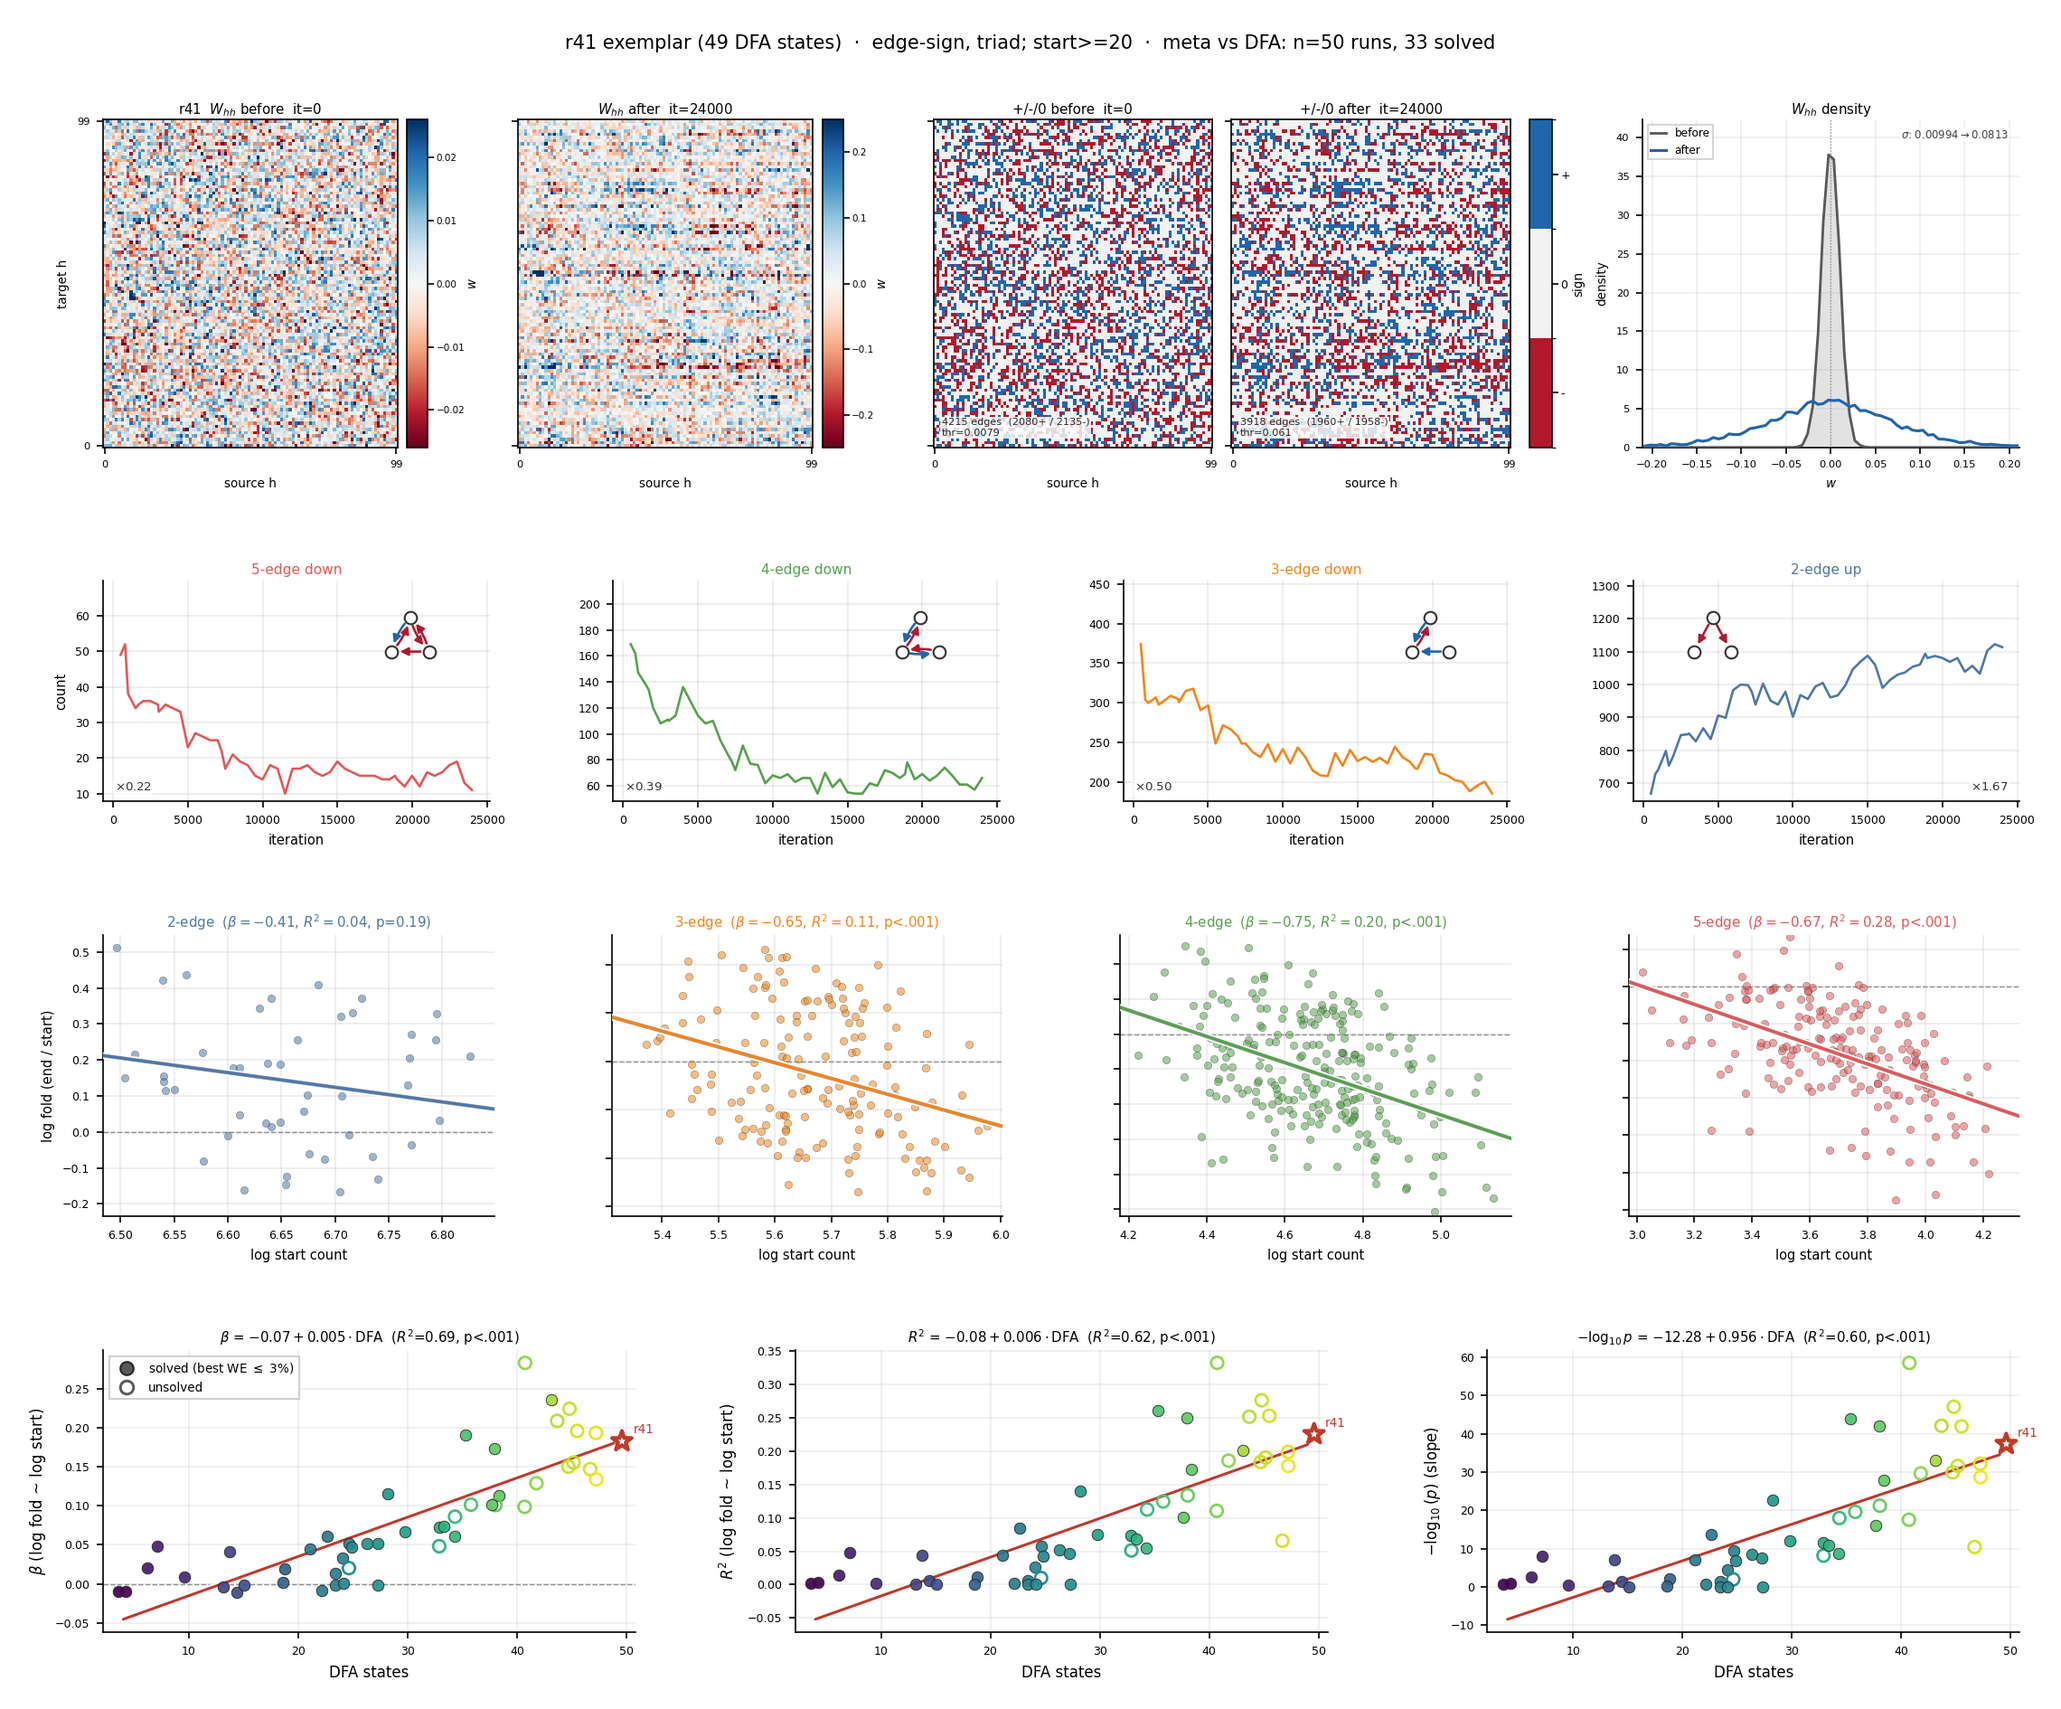
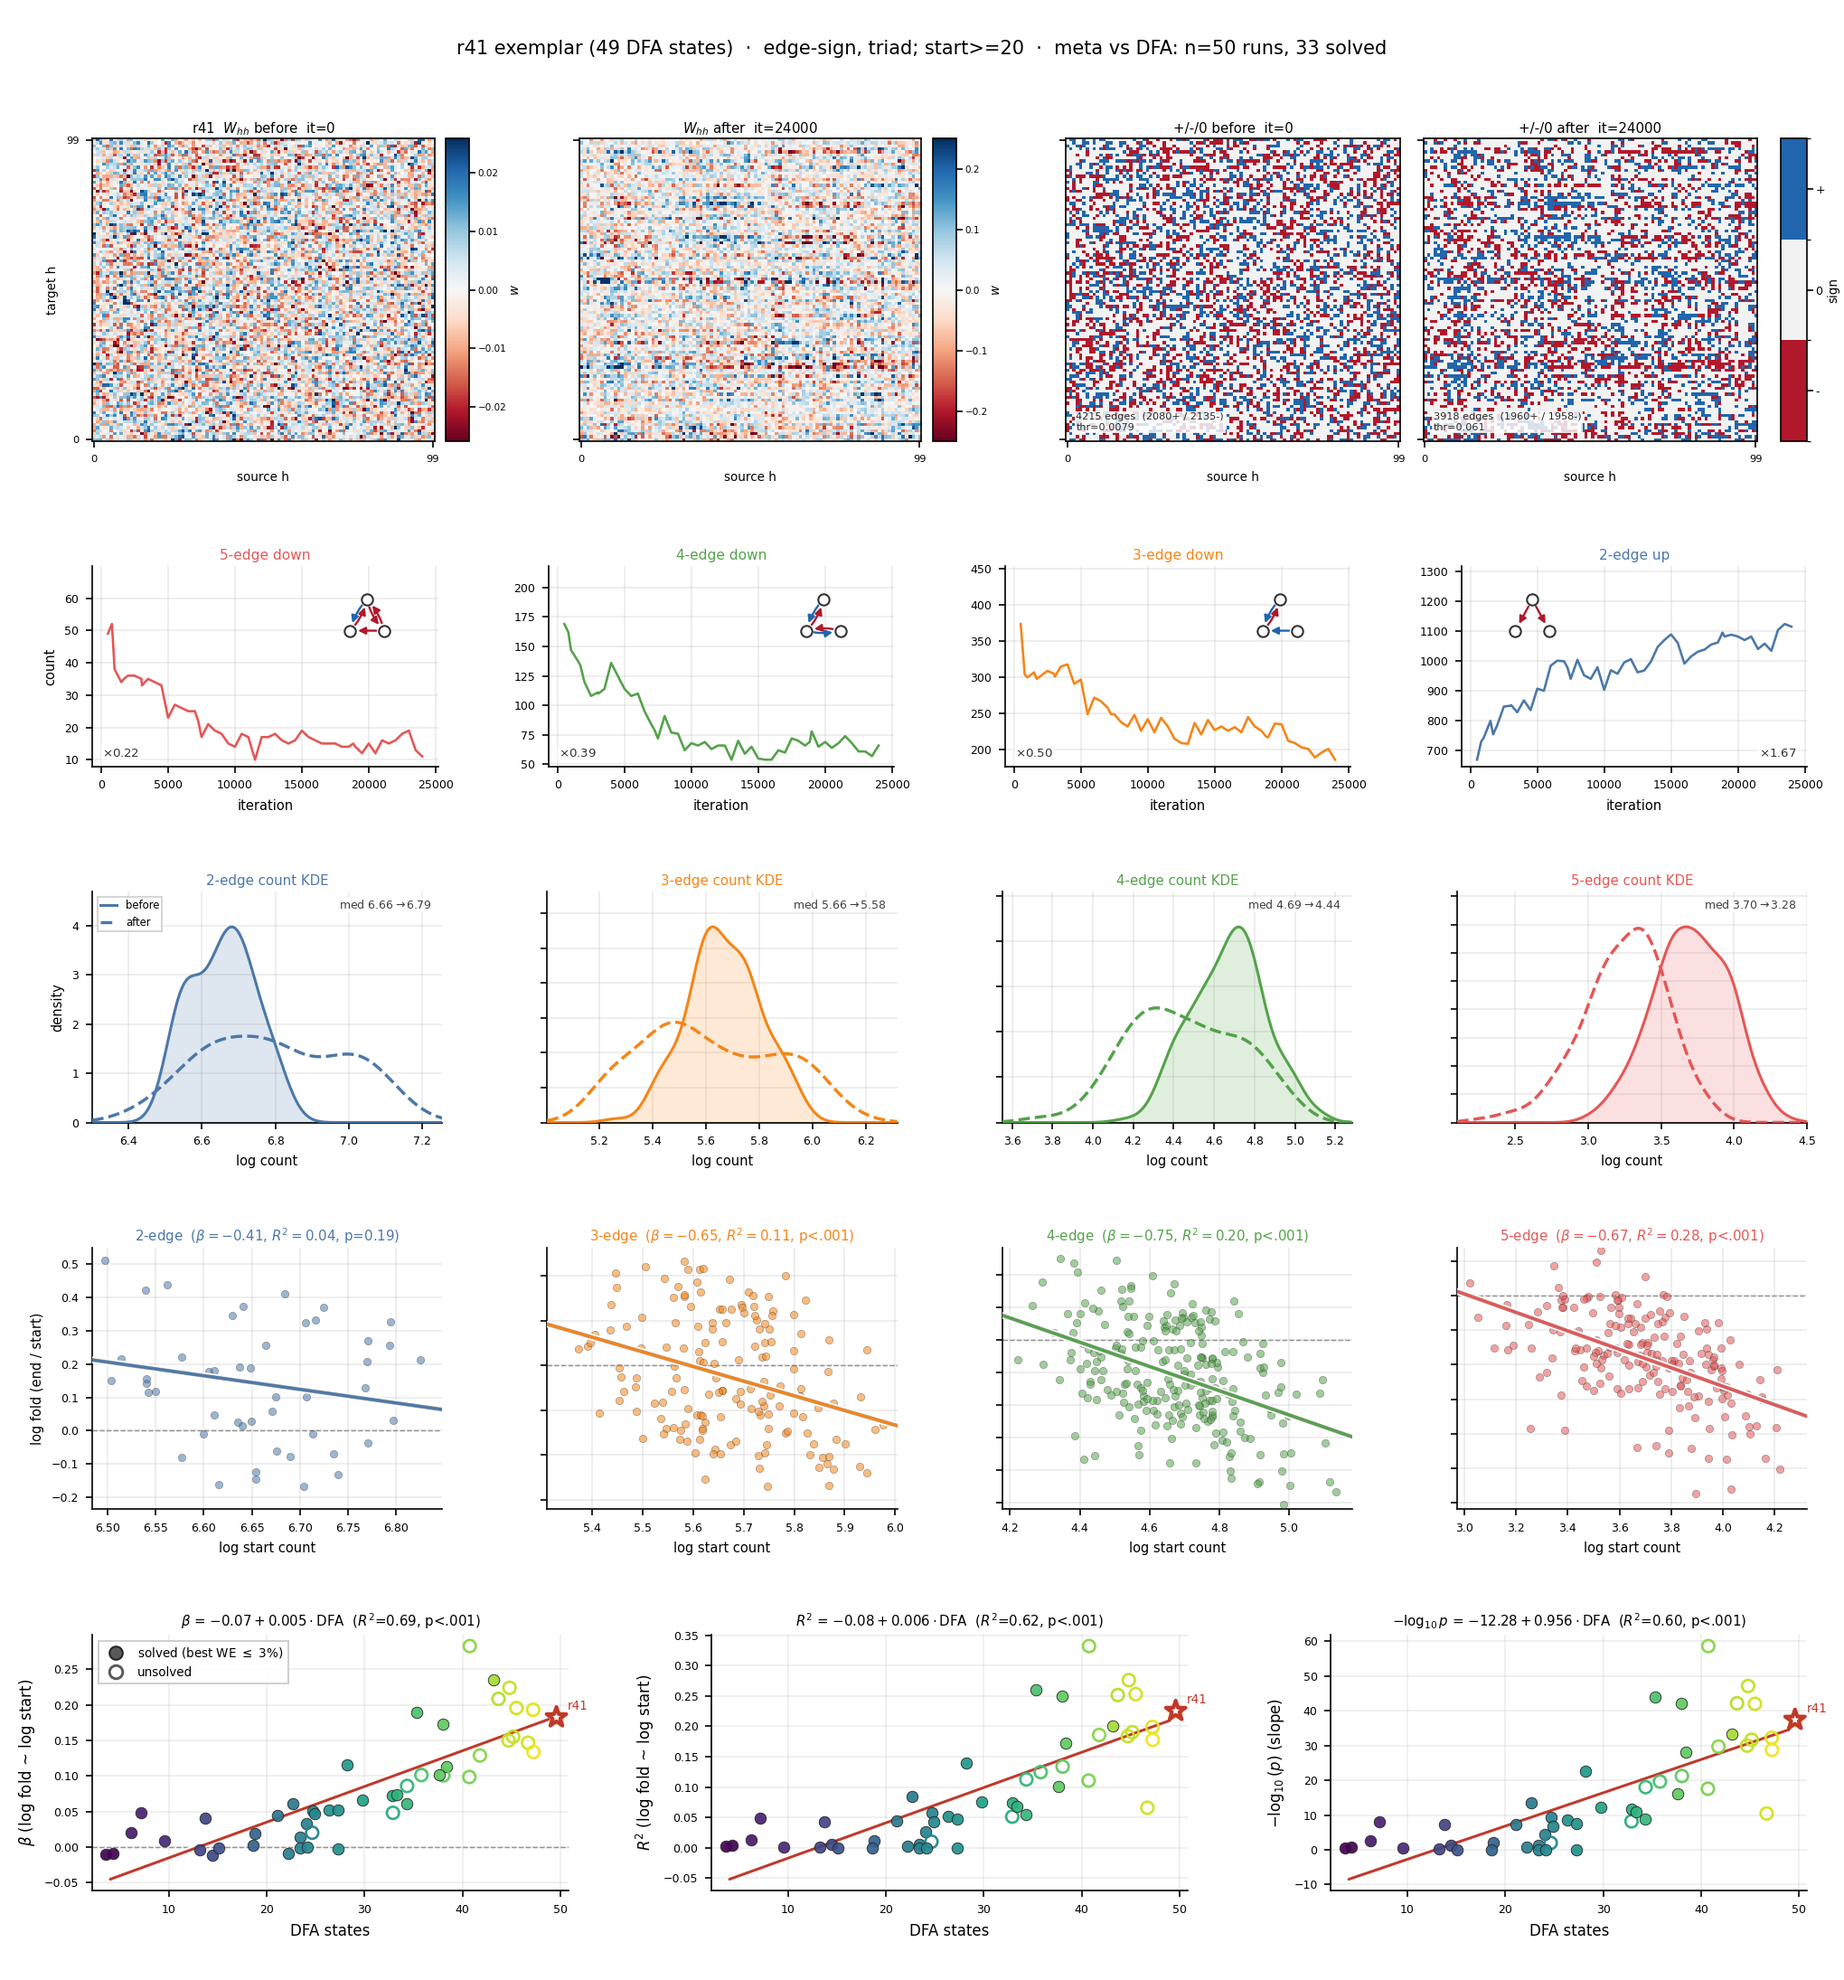
figures

diff --git a/viz/compare/mixed_dfa_motif_all_runs.py b/viz/compare/mixed_dfa_motif_all_runs.py
@@ -988,6 +988,89 @@ def _draw_tier_kde_before_after(
     ax.legend(fontsize=5.5, frameon=True, fancybox=False, edgecolor="0.8", loc="upper left")
 
 
+def _draw_tier_count_kde_overlay(
+    ax,
+    rows: list[dict],
+    *,
+    n_edges: int,
+    show_legend: bool = False,
+    ylabel: bool = False,
+) -> None:
+    """Overlapping KDE of log motif-class counts: before vs after, one #edges tier."""
+    from scipy.stats import gaussian_kde
+
+    v0 = np.array(
+        [float(r["log_c0"]) for r in rows if _n_edges_from_key(r["key"]) == n_edges],
+        dtype=float,
+    )
+    v1 = np.array(
+        [
+            float(r["log_c0"]) + float(r["log_fold"])
+            for r in rows if _n_edges_from_key(r["key"]) == n_edges
+        ],
+        dtype=float,
+    )
+    v0 = v0[np.isfinite(v0)]
+    v1 = v1[np.isfinite(v1)]
+    col = _EDGE_COUNT_COLORS.get(n_edges, "#888888")
+    ax.set_title(f"{n_edges}-edge count KDE", fontsize=7.2, pad=3.5, color=col)
+
+    if len(v0) < 2 and len(v1) < 2:
+        ax.text(
+            0.5, 0.5, "insufficient\nmotif classes", ha="center", va="center",
+            transform=ax.transAxes, fontsize=7,
+        )
+        ax.set_xticks([])
+        ax.set_yticks([])
+        return
+
+    parts = [v for v in (v0, v1) if len(v)]
+    x_lo = float(min(v.min() for v in parts)) - 0.15
+    x_hi = float(max(v.max() for v in parts)) + 0.15
+    xs = np.linspace(x_lo, x_hi, 220)
+    y_max = 0.0
+
+    def _kde_line(
+        vals: np.ndarray, *, color: str, fill: bool, ls: str, lw: float, label: str, z: int,
+    ):
+        nonlocal y_max
+        if len(vals) < 2 or float(np.std(vals)) < 1e-9:
+            return
+        kde = gaussian_kde(vals, bw_method=lambda k: max(float(k.scotts_factor()), 0.06))
+        ys = np.asarray(kde(xs), dtype=float)
+        y_max = max(y_max, float(np.nanmax(ys)))
+        if fill:
+            ax.fill_between(xs, ys, color=color, alpha=0.18, zorder=z - 1)
+        ax.plot(xs, ys, color=color, lw=lw, ls=ls, label=label, zorder=z)
+
+    _kde_line(v0, color=col, fill=True, ls="-", lw=1.45, label="before", z=3)
+    _kde_line(v1, color=col, fill=False, ls="--", lw=1.65, label="after", z=4)
+    ax.set_xlim(x_lo, x_hi)
+    ax.set_ylim(0.0, y_max * 1.18 if y_max > 0 else 1.0)
+    ax.set_xlabel("log count", fontsize=7.0)
+    if ylabel:
+        ax.set_ylabel("density", fontsize=7.0)
+    else:
+        ax.tick_params(labelleft=False)
+    ax.tick_params(labelsize=6.0)
+    ax.grid(True, alpha=0.25)
+    ax.spines["top"].set_visible(False)
+    ax.spines["right"].set_visible(False)
+    if len(v0) >= 2 and len(v1) >= 2:
+        ax.text(
+            0.97, 0.97,
+            rf"med {float(np.median(v0)):.2f}$\rightarrow${float(np.median(v1)):.2f}",
+            transform=ax.transAxes, ha="right", va="top", fontsize=6.0, color="0.25",
+            bbox=dict(facecolor="white", edgecolor="none", alpha=0.85, pad=0.6),
+            zorder=5,
+        )
+    if show_legend:
+        ax.legend(
+            fontsize=5.6, loc="upper left", frameon=True, fancybox=False,
+            edgecolor="0.8", borderpad=0.25, handlelength=1.6,
+        )
+
+
 def _draw_motif_distribution_hist(
     ax,
     cnt: dict,
@@ -2831,7 +2914,7 @@ def _draw_hh_before_after_row(
     *,
     run_id: int,
 ) -> None:
-    """Four heatmaps plus overlapping before/after W_hh density.
+    """Four heatmaps: raw W_hh and mean-|W| trinary (+/−/0), start vs end.
 
     Each snapshot is hierarchically clustered on its own W_xh / W_hh (same
     unit permutation on rows and columns). Before and after use independent
@@ -2846,7 +2929,7 @@ def _draw_hh_before_after_row(
         symmetric_abs_vmax,
     )
 
-    # Four groups: (W0+cbar) | (W1+cbar) | (T0, T1, cbarT) | density overlay
+    # Three groups: (W0+cbar) | (W1+cbar) | (T0, T1, cbarT)
     gs_w0 = gs[0, 0].subgridspec(1, 2, width_ratios=[1.0, 0.07], wspace=0.06)
     gs_w1 = gs[0, 1].subgridspec(1, 2, width_ratios=[1.0, 0.07], wspace=0.06)
     gs_t = gs[0, 2].subgridspec(1, 3, width_ratios=[1.0, 1.0, 0.08], wspace=0.10)
@@ -2857,12 +2940,11 @@ def _draw_hh_before_after_row(
     ax_t0 = fig.add_subplot(gs_t[0, 0])
     ax_t1 = fig.add_subplot(gs_t[0, 1])
     cax_t = fig.add_subplot(gs_t[0, 2])
-    ax_h = fig.add_subplot(gs[0, 3])
     axes_w = (ax_w0, ax_w1)
     axes_t = (ax_t0, ax_t1)
 
     if payload is None:
-        for ax in (*axes_w, *axes_t, ax_h):
+        for ax in (*axes_w, *axes_t):
             ax.axis("off")
         ax_w0.text(
             0.5, 0.5, "no learning snaps", ha="center", va="center",
@@ -2950,50 +3032,6 @@ def _draw_hh_before_after_row(
     cbar_t.ax.set_yticklabels(["-", "0", "+"])
     cbar_t.ax.tick_params(labelsize=6.0, pad=1)
     cbar_t.set_label("sign", fontsize=6.5, labelpad=1)
-
-    eye = np.eye(n, dtype=bool)
-    flat0 = w0c[~eye]
-    flat1 = w1c[~eye]
-    both = np.concatenate([flat0, flat1])
-    finite = both[np.isfinite(both)]
-    if finite.size == 0:
-        ax_h.text(0.5, 0.5, "no weights", ha="center", va="center",
-                  transform=ax_h.transAxes, fontsize=8)
-        ax_h.axis("off")
-        return
-    w_lo = float(np.percentile(finite, 0.5))
-    w_hi = float(np.percentile(finite, 99.5))
-    if not np.isfinite(w_lo) or not np.isfinite(w_hi) or w_lo == w_hi:
-        w_lo, w_hi = -1.0, 1.0
-    bins = np.linspace(w_lo, w_hi, 73)
-    centers = 0.5 * (bins[:-1] + bins[1:])
-    dens0, _ = np.histogram(flat0, bins=bins, density=True)
-    dens1, _ = np.histogram(flat1, bins=bins, density=True)
-    ax_h.plot(centers, dens0, color="0.35", lw=1.35, label="before", zorder=3)
-    ax_h.fill_between(centers, dens0, color="0.72", alpha=0.40, zorder=1)
-    ax_h.plot(centers, dens1, color="#2166ac", lw=1.50, label="after", zorder=4)
-    ax_h.axvline(0.0, color="0.55", lw=0.6, ls=":", zorder=2)
-    y_max = max(float(np.nanmax(dens0)), float(np.nanmax(dens1)), 1e-9)
-    ax_h.set_xlim(w_lo, w_hi)
-    ax_h.set_ylim(0.0, y_max * 1.12)
-    ax_h.set_title(r"$W_{hh}$ density", fontsize=7.2, pad=3.0)
-    ax_h.set_xlabel(r"$w$", fontsize=6.5)
-    ax_h.set_ylabel("density", fontsize=6.5)
-    ax_h.tick_params(labelsize=5.5)
-    ax_h.grid(True, alpha=0.22)
-    ax_h.spines["top"].set_visible(False)
-    ax_h.spines["right"].set_visible(False)
-    ax_h.legend(
-        fontsize=5.8, loc="upper left", frameon=True, fancybox=False,
-        edgecolor="0.8", borderpad=0.25, handlelength=1.4,
-    )
-    sd0, sd1 = float(np.std(flat0)), float(np.std(flat1))
-    ax_h.text(
-        0.97, 0.97, rf"$\sigma$: {sd0:.3g}$\rightarrow${sd1:.3g}",
-        transform=ax_h.transAxes, ha="right", va="top", fontsize=5.6, color="0.25",
-        bbox=dict(facecolor="white", edgecolor="none", alpha=0.85, pad=0.6),
-        zorder=5,
-    )
 
 
 def plot_all_runs_homogenization_board(
@@ -3110,14 +3148,17 @@ def plot_all_runs_homogenization_board(
     n_meta = 3
     hh_pair = _load_run_hh_before_after(exempl_id, model=model, seed=seed)
 
-    fig = plt.figure(figsize=(max(15.2, 2.55 * max(n_tier, n_meta) + 2.2), 12.6))
-    outer = fig.add_gridspec(4, 1, height_ratios=[1.22, 0.82, 1.05, 1.05], hspace=0.48)
+    fig = plt.figure(figsize=(max(13.6, 2.55 * max(n_tier, n_meta) + 0.8), 14.6))
+    outer = fig.add_gridspec(
+        5, 1, height_ratios=[1.18, 0.78, 0.90, 1.02, 1.00], hspace=0.50,
+    )
     mat_row = outer[0].subgridspec(
-        1, 4, width_ratios=[1.05, 1.05, 2.00, 1.22], wspace=0.22,
+        1, 3, width_ratios=[1.12, 1.12, 2.20], wspace=0.22,
     )
     demo_row = outer[1].subgridspec(1, max(n_demo, 1), wspace=0.32)
-    tier_row = outer[2].subgridspec(1, n_tier, wspace=0.30)
-    meta_row = outer[3].subgridspec(1, n_meta, wspace=0.30)
+    kde_row = outer[2].subgridspec(1, n_tier, wspace=0.30)
+    tier_row = outer[3].subgridspec(1, n_tier, wspace=0.30)
+    meta_row = outer[4].subgridspec(1, n_meta, wspace=0.30)
     schema_insets: list[tuple[Any, str, bool]] = []
     _draw_hh_before_after_row(fig, mat_row, hh_pair, run_id=exempl_id)
 
@@ -3162,6 +3203,12 @@ def plot_all_runs_homogenization_board(
         x_disp, y_disp = _jitter_display_coords(log_c0, log_fold, seed=0)
     else:
         x_disp = y_disp = np.array([])
+    for j, ne in enumerate(preferred_tiers):
+        ax_k = fig.add_subplot(kde_row[0, j])
+        _draw_tier_count_kde_overlay(
+            ax_k, exempl_rows, n_edges=ne,
+            show_legend=(j == 0), ylabel=(j == 0),
+        )
     for j, ne in enumerate(preferred_tiers):
         ax = fig.add_subplot(tier_row[0, j])
         mask = n_edges == ne
@@ -3242,7 +3289,7 @@ def plot_all_runs_homogenization_board(
         bottom=0.045,
         left=0.05,
         right=0.98,
-        hspace=0.48,
+        hspace=0.52,
         wspace=0.30,
     )
     for inset, key, _rising in schema_insets:

diff --git a/scripts/r43_motif_figs.py b/scripts/r43_motif_figs.py
@@ -703,7 +703,7 @@ def plot_lollipop_before_after(
     title: str | None = None,
     motif_prefix: str = "T|",
 ) -> Path:
-    """Per-motif start / end / Δ lollipops, ordered by #edges then end−start."""
+    """Per-motif start / end / Δ lollipops, ordered by #edges then start count."""
     snaps = json.loads(json_path.read_text(encoding="utf-8"))
     c0 = snaps[0]["cnt"]
     c1 = snaps[-1]["cnt"]
@@ -719,7 +719,7 @@ def plot_lollipop_before_after(
         end = float(c1.get(key, 0.0))
         ne = int(mar._n_edges_from_key(key))
         rows.append((ne, start, end, end - start, key))
-    rows.sort(key=lambda r: (r[0], -r[3], -r[1], r[4]))
+    rows.sort(key=lambda r: (r[0], -r[1], -r[3], r[4]))
 
     tiers = sorted({r[0] for r in rows})
     by_ne: dict[int, list[tuple[int, float, float, float, str]]] = {ne: [] for ne in tiers}
@@ -810,7 +810,7 @@ def plot_lollipop_before_after(
         suptitle=title or (
             f"r{SINGLE_RUN_ID:02d} rnn (edge-sign): {kind} lollipops  "
             f"iter {it0}→{it1}, start>={min_start}, n={len(rows)}  "
-            f"(order: #edges, end−start)"
+            f"(order: #edges, start count)"
         ),
         top=0.94 if is_dyad else 0.965,
         bottom=0.08 if is_dyad else 0.035,
